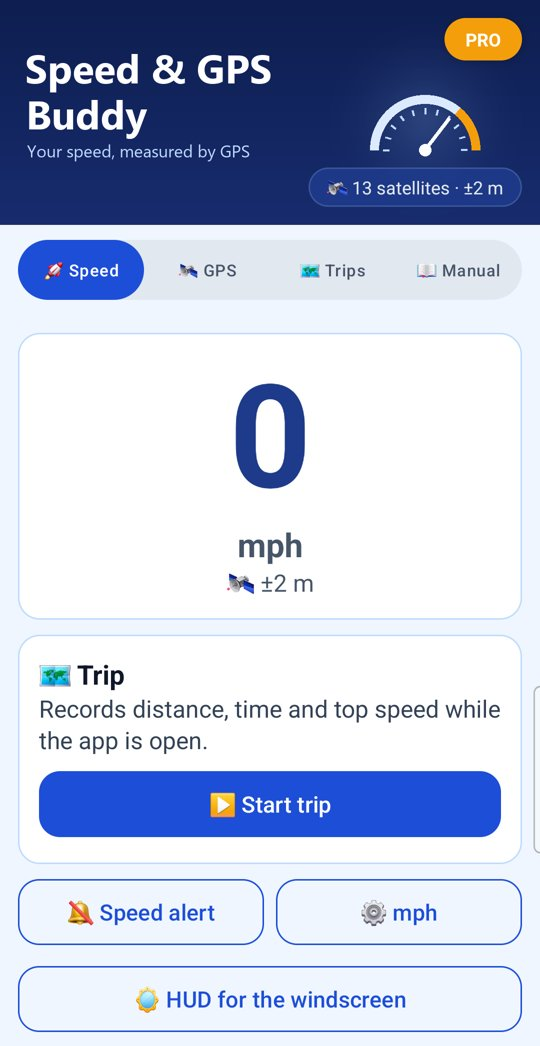
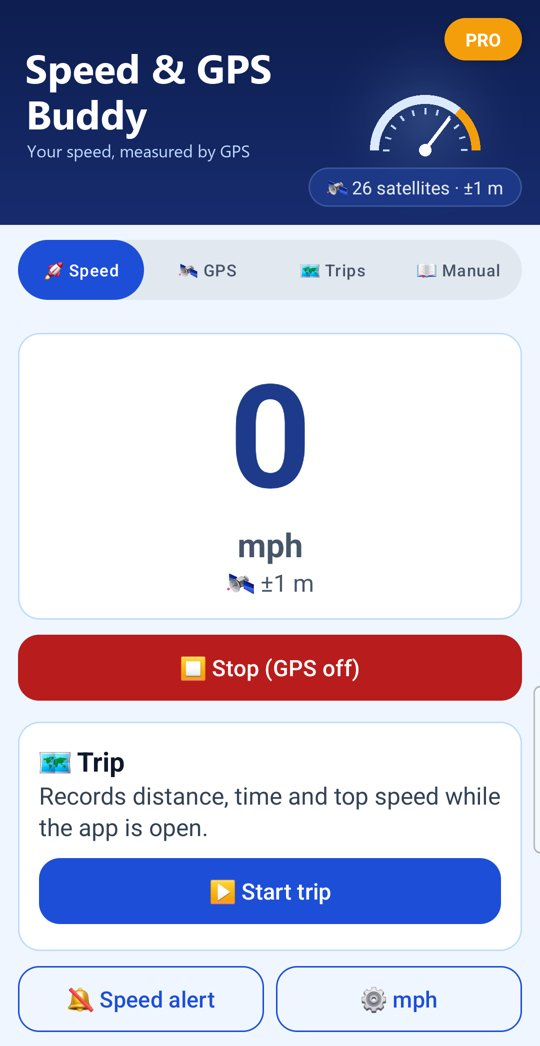
Add files via upload

Changed region(s): [[0.0296, 0.5507, 0.9778, 1.0], [0.6519, 0.153, 0.6815, 0.1836]]

diff --git a/speed-gps-buddy/index.html b/speed-gps-buddy/index.html
@@ -43,6 +43,14 @@
         <p>Speed &amp; GPS Buddy shows your speed from your phone's GPS, with how accurate the GPS fix is and how many satellites are in use. It records trips (distance, time, top speed and average), beeps when you go over a speed you choose, and has a mirrored head-up display for a windscreen (Pro).</p>
         <p>The app uses location only while it's open on screen. It has no background tracking and sends nothing anywhere.</p>
 
+        <h3>▶ Using it, start to finish</h3>
+        <p>1. When you open the app, GPS is off and the speed shows 0 ("GPS off · tap Start"): nothing is measured yet.</p>
+        <p>2. Tap ▶ Start. The first time, Android asks to allow location. GPS switches on; until it has a fix the speed shows -- and "Waiting for GPS". GPS needs a view of the sky.</p>
+        <p>3. The speed you then see is measured by GPS. If the signal is lost (a tunnel, indoors), it shows -- and says so instead of guessing.</p>
+        <p>4. ▶ Start trip records a trip (it switches GPS on if it was off) and keeps the screen on. ⏹ Stop trip saves it.</p>
+        <p>5. Tap ⏹ Stop (GPS off) when you've finished: GPS switches off and the speed goes back to 0. A running trip is saved first.</p>
+        <p>6. Leaving the app switches GPS off too. Coming back, it stays off, unless a trip was running: then GPS comes back on by itself and the trip carries on.</p>
+
         <h3>⚠ Safety</h3>
         <p>If you're driving, put the phone in a fixed holder and set it up before you set off. Don't touch it while you're moving. GPS speed is a guide: your vehicle's speedometer and the road signs come first, and the app can't know the speed limit.</p>
 
@@ -73,7 +81,7 @@
         <p>Google Play handles the Pro purchase.</p>
 
         <h3>About</h3>
-        <p>Speed &amp; GPS Buddy v1.0 (Build 1)</p>
+        <p>Speed &amp; GPS Buddy v1.1 (Build 2)</p>
         <p>Publisher: AppStack Studio</p>
 
         <h3>⚡ WHY SPEED &amp; GPS BUDDY</h3>
@@ -103,7 +111,7 @@
         <div class="screenshot-card"><img src="speed-gps-buddy-trips.jpg" alt="Trips with distance, time and speeds"><p><strong>3. Trips</strong><br>Distance, time, top speed and average moving speed.</p></div>
         <div class="screenshot-card"><img src="speed-gps-buddy-hud.jpg" alt="Mirrored speed for a windscreen"><p><strong>4. HUD (Pro)</strong><br>A big mirrored speed that reflects in the windscreen at night.</p></div>
     </div>
-    <p style="font-size: 13px; color: #94A3B8;">Screenshots: Speed &amp; GPS Buddy 1.0 on a Samsung Galaxy S24. The trips are sample trips; the satellites are real.</p>
+    <p style="font-size: 13px; color: #94A3B8;">Screenshots: Speed &amp; GPS Buddy 1.1 on a Samsung Galaxy S24. The trips are sample trips; the satellites are real.</p>
     <div class="footer">
         &copy; 2026 AppStack Studio. All rights reserved. | Support: <a href="mailto:appstack1966@gmail.com">appstack1966@gmail.com</a>
     </div>
